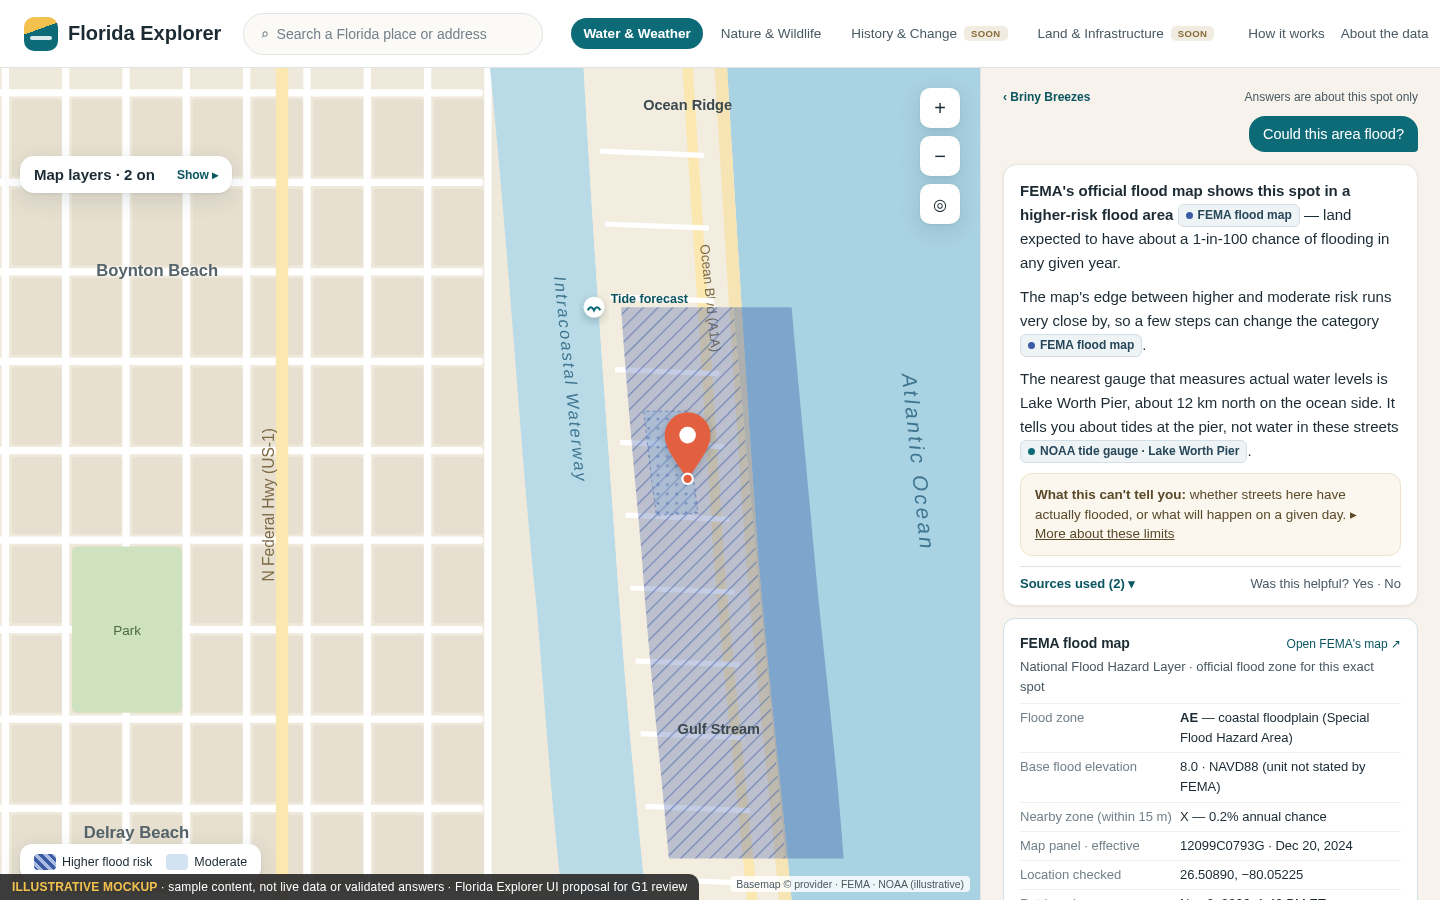
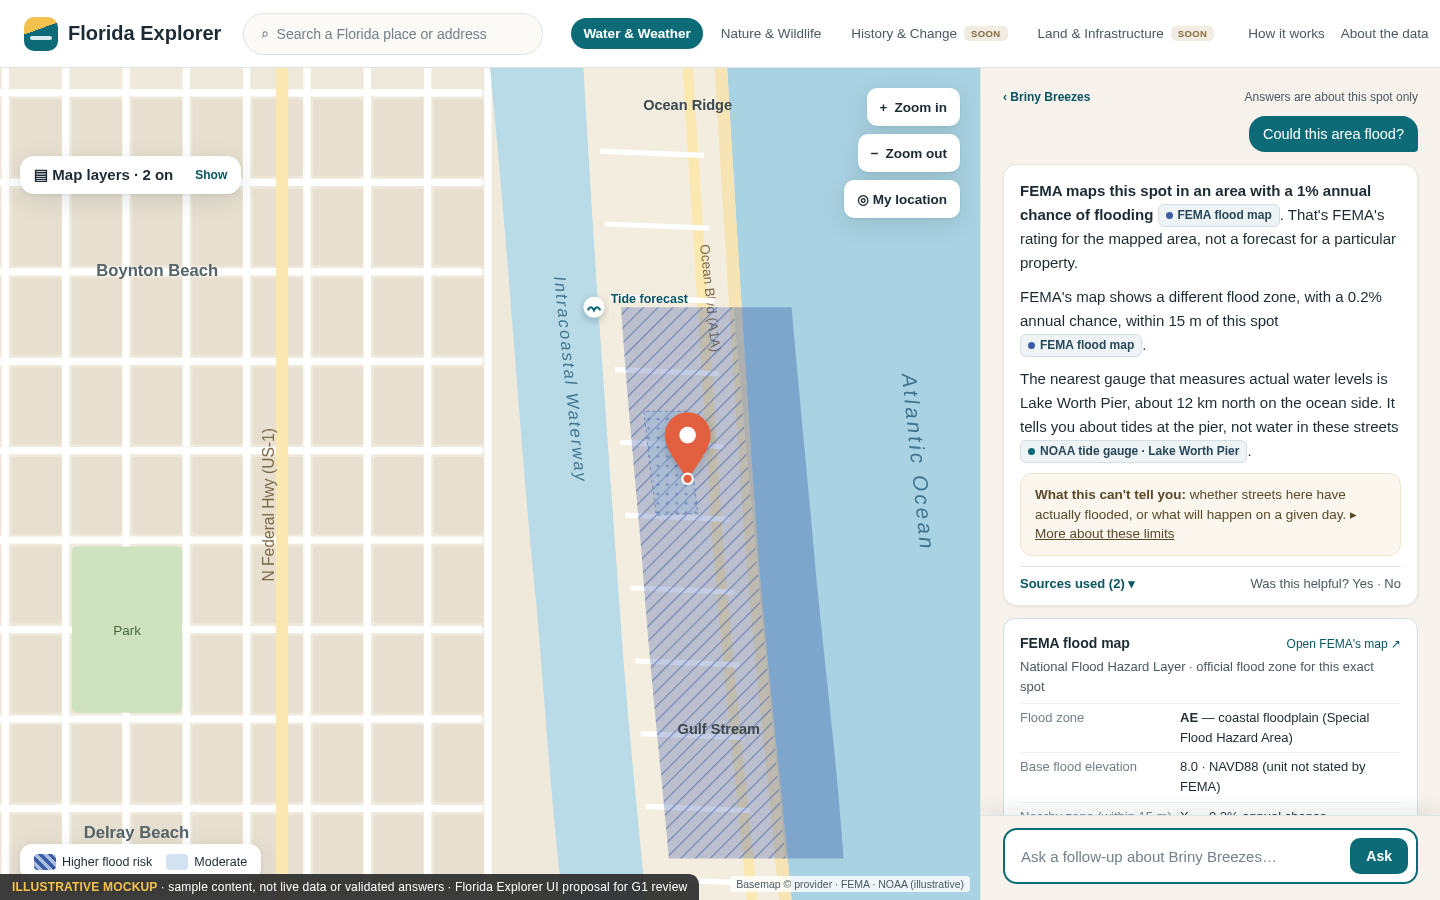
UI refinements: pinned Ask This Place, FEMA-attributed flood wording, actionable nature cards, labelled map controls

diff --git a/devin/ui-design.md b/devin/ui-design.md
@@ -68,14 +68,20 @@ Plain text is generated from the verified `FLD_ZONE` / `ZONE_SUBTY` fact using a
 
 | FEMA fact | Plain-language headline (proposed wording) |
 |---|---|
-| A, AE, AH, AO, AR, A99 | "Higher-risk flood area: about a 1% chance of flooding each year" |
-| V, VE | "Highest-risk coastal flood area: flooding plus waves, about a 1% chance each year" |
-| X with 0.2% subtype | "Moderate-risk flood area: about a 0.2% chance each year" |
-| X (minimal) | "Lower-risk area on FEMA's map. Flooding can still happen" |
-| D | "FEMA hasn't determined the flood risk here" |
-| `in_coverage_no_zone` | "FEMA's map covers this spot but shows no flood zone here, which is a gap in the map rather than a sign of low risk" |
-| `outside_nfhl_coverage` | "FEMA's digital flood map doesn't cover this spot" |
-| near boundary / `nearbyZones` | adds "A different flood category starts a few steps away" |
+| A, AE, AH, AO, AR, A99 | "FEMA maps this spot in an area with a 1% annual chance of flooding." |
+| V, VE | "FEMA maps this spot in a coastal area with a 1% annual chance of flooding, where waves add to the hazard." |
+| X with 0.2% subtype | "FEMA maps this spot in an area with a 0.2% annual chance of flooding." |
+| X (minimal) | "FEMA maps this spot outside its 1% and 0.2% annual-chance flood areas. Flooding can still happen." |
+| D | "FEMA's map shows the flood hazard here as undetermined." |
+| `in_coverage_no_zone` | "FEMA's map covers this spot but shows no flood zone here. That's a gap in the map, not a sign of low risk." |
+| `outside_nfhl_coverage` | "FEMA's digital flood map doesn't cover this spot." |
+| `classified_near_boundary` / `nearbyZones` | adds "FEMA's map shows a different flood zone within 15 m of this spot." (15 m is the verified buffer distance, D8; boundaries on the map are approximate) |
+
+Wording rules:
+- The sentence always says what **FEMA maps**. It never claims the property has that probability.
+- No "risky", "safe", "low risk" or "a few steps away".
+- Distances appear only when computed from source geometry (the boundary buffer, or a distance to a polygon).
+- In technical details, "1% annual chance" is explained as FEMA's regulatory definition for the mapped area, not a property-level forecast.
 
 ### 0.5 Readable source labels
 
@@ -95,6 +101,7 @@ Station labels are built from the cited record's own station name and water body
 ### 0.6 Explore this place
 
 - Shows the place name (from the geocoder or Census place record), a one-line description and up to three summary cards: Flooding, Tides nearby, Nature nearby (proposed, C8).
+- **Ask This Place is always visible.** On desktop it is pinned to the bottom of the place panel: the Ask box plus one row of suggested questions, with a top shadow. Cards scroll above it, and it never scrolls out of view. On mobile it stays in the collapsed and half sheets as the primary button or box. Acceptance: at 1366×768 and 360×800 the Ask box is visible without scrolling (N31).
 - Each card has one plain sentence, a source label and one expander.
 - Suggested questions sit under the Ask box: "Could this area flood?", "What are king tides?", "What's protected near here?", "How high do tides get?".
 - **Gap flagged:** the one-line place description isn't from a current evidence source. Options are U8 (a curated, owner-approved blurb labelled as editorial, a sourced description, or omit it in the MVP). Until decided, the mockup sentence is illustrative only.
@@ -111,6 +118,7 @@ Station labels are built from the cited record's own station name and water body
 - Layers: **Flooding** (baseline), **Wetlands**, **Conservation areas**, **Aquatic preserves**, **Shoreline** (proposed, C7 — tagged "Proposed" in the mockups) and **Tide stations**.
 - Each row shows a swatch, a plain name and a source subtitle. Tapping the name opens "What's this?" with the source, date and limitations.
 - Fixed note: "Layers help you look around. What we say about your spot comes from each source's own records."
+- **Descriptive controls.** Map controls carry visible text labels, not icons alone: "Map layers", "Select map center", "Zoom in", "Zoom out" and "My location". Icons, where used, sit next to the text, and the accessible name equals the visible label (WCAG 2.5.3). On mobile, the label may be shortened to "Layers" but the accessible name stays "Map layers" (N32).
 
 ### 0.9 Nature & Wildlife
 
@@ -118,6 +126,13 @@ Station labels are built from the cited record's own station name and water body
   - **"Seen here":** a reported sighting at a place and date. It doesn't mean the species lives there.
   - **"Could live here":** mapped likely habitat. It doesn't mean anyone has seen it there.
 - Live in the proposal: protected places nearby and wetlands (C7/C8).
+- **Actionable nearby-place cards.** Each protected place shows:
+  - its name and managing agency;
+  - the **distance from the selected spot to the area's boundary**, computed server-side from source geometry ("0 km — this spot is inside" when inside);
+  - a **"Show on map"** button that zooms to and highlights the area, with focus moving to the map and an announced name;
+  - a link to the manager's website when the source provides one.
+  
+  A fixed line under the list reads: "Protected doesn't always mean open to the public. Check with the managing agency before visiting."
 - Shown as **Coming later:** wildlife sightings (iNaturalist candidate) and likely rare-species habitat (FNAI Biodiversity Matrix, pending data-use permission). Details are in layer-reuse-feasibility.md §4.
 - Example content is labelled "Example layout — not live data".
 
@@ -153,7 +168,7 @@ Full-screen map with a bottom sheet that has three snap points: A collapsed (≈
 | Top bar | Product name; place search or typed lat/lon; four domain tabs; About/Help | R01, charter domains |
 | Domain tabs | **Water & Weather** (MVP, active), **Nature & Wildlife**, **History & Change**, **Land & Infrastructure** (labelled "later"; visible so the product scope is legible, but they load no data) | Charter; PRD future domains |
 | Layers panel | FEMA flood hazard overlay (toggle, opacity), NOAA station markers, NOAA sea level rise (disabled, "later — D3"), basemap choice, FEMA legend with verbatim codes and plain labels, station legend, an "overlay is orientation only" note, and attribution | R02, R03, R08 |
-| Map | Basemap, FEMA overlay, station markers (circle = observed, triangle = predictions only), selected-point crosshair and coordinate chip, zoom, locate, "Select map centre" control, scale bar, attribution | R01, R02, R08 |
+| Map | Basemap, FEMA overlay, station markers (circle = observed, triangle = predictions only), selected-point crosshair and coordinate chip, zoom, locate, "Select map center" control, scale bar, attribution | R01, R02, R08 |
 | This place | Bound-point header; FEMA card; NOAA card; Ask This Place; answer; source details | R02–R06 |
 
 ## 3. Interaction specification
@@ -163,7 +178,7 @@ Full-screen map with a bottom sheet that has three snap points: A collapsed (≈
 | Input | Behaviour |
 |---|---|
 | Click or tap on the map | Moves the crosshair to the exact clicked coordinate and shows the chip `26.50890, -80.05225` (5 dp display; full precision is kept). On mobile, a toast "Point moved to …" offers Undo for 5 s |
-| Keyboard | Map is focusable. Arrow keys pan by 1/8 of the viewport (Shift: 1/2), `+`/`−` zoom, and **Enter** or the "Select map centre" button selects the fixed centre crosshair. The result is identical to a click |
+| Keyboard | Map is focusable. Arrow keys pan by 1/8 of the viewport (Shift: 1/2), `+`/`−` zoom, and **Enter** or the "Select map center" button selects the fixed centre crosshair. The result is identical to a click |
 | Typed coordinates | Search box accepts `lat, lon`. Rejected with an inline message and no query when outside the Florida envelope ("This point is outside Florida; Florida Explorer covers Florida only") or when the order looks swapped ("Did you mean 26.51, -80.05? Latitude comes first") |
 | Place search | Geocoder suggestions (provider per D1). Choosing one sets the point; the chip shows coordinates, not just the name |
 | Copy | Copies coordinates in `lat, lon` decimal degrees |

diff --git a/devin/validation-plan.md b/devin/validation-plan.md
@@ -99,14 +99,16 @@ Assertions per fixture: state code, rendered copy, limitation code, and that no 
 | N20 | Identifiers and dates in text | "Station 8722670 … on 2025-10-10", "panel 12099C0793G effective 2024-12-20" citing matching records | accepted: ids/dates checked against id/date fields, no unit or datum required; wrong id (8722671) or date → rejected | Design |
 | N21 | No zone at point, zone in buffer | NZ-1 variant: layer 0 hit, exact layer 28 empty, buffer returns AE; and OC variant: layer 0 empty, buffer returns VE | state stays `in_coverage_no_zone` / `outside_nfhl_coverage`, `nearbyZones` lists the zone, near-boundary warning + `NEAR_MAPPED_ZONE` shown; buffer failure → `BOUNDARY_CHECK_UNAVAILABLE` | Synthetic |
 | N22 | Out-of-bounds map selection | click/tap, keyboard centre select and place-search result at 25.00, -78.00 | same rejection as typed input (N02): crosshair and current point unchanged, no request, message shown; server rejection, if forced, renders the same message | Design |
-| N23 | Plain-language flood copy | each FEMA state/zone fixture (BB-P1, BB-P2, NZ-1, OC-1, near-boundary) | headline equals the §0.4 template for the verified fact; technical code present in details; copy never says "safe" | Design |
+| N23 | Plain-language flood copy | each FEMA state/zone fixture (BB-P1, BB-P2, NZ-1, OC-1, near-boundary) | headline equals the §0.4 template for the verified fact (e.g. BB-P1: "FEMA maps this spot in an area with a 1% annual chance of flooding."); technical code present in details; copy never says "safe", "low risk" or "a few steps away", and never states a property-level probability; distances only from computed geometry | Design |
 | N24 | Readable source labels | answers citing FEMA, NOAA obs and NOAA predictions | each claim shows the mapped label (ui-design.md §0.5), never only `E#`; details show `E#` | Design |
 | N25 | No verification badge | all answer modes | no "verified", "confirmed" or check-mark badge on answers or places; template mode shows the plain notice | Design |
 | N26 | Sightings vs habitat (future) | synthetic `species_observation` and `habitat_model` records at one point | rendered in separate sections with "Seen here" / "Could live here"; neither class supports the other's claims | Synthetic |
 | N27 | Nature lookup: no feature at point | BB-P1 | conservation, aquatic preserve and wetland point lookups all empty; nothing says "inside" a protected area or wetland; the nearby list may still show places | Checked live (all three empty) |
 | N28 | Nature lookup: positive membership | 26.50, −80.25 and 25.60, −80.20 | conservation `MANAME` = "Arthur R. Marshall Loxahatchee National Wildlife Refuge" / "Biscayne National Park"; wetland `WETLAND_TYPE` = "Freshwater Emergent Wetland" (`PEM1F`) / "Estuarine and Marine Deepwater" (`M1ABL`); rendered facts equal the source fields | Checked live |
-| N29 | Nearby protected places | BB-P1 with the approved radius (D12) | list equals the saved authoritative nearby-query result (live box check returned Seacrest Scrub, Ocean Ridge and North Ocean Ridge Mangroves Natural Areas); each distance is to the polygon boundary, computed server-side and within 10 m of a reference GIS calculation; ordered by distance | Names checked live; distances pending radius decision |
+| N29 | Nearby protected places | BB-P1 with the approved radius (D12) | list equals the saved authoritative nearby-query result (live check: Ocean Ridge NA 1.22 km, Seacrest Scrub NA 1.75 km, North Ocean Ridge Mangroves NA 2.21 km, Ocean Ridge Hammock Park 2.55 km; see layer-reuse-feasibility.md); "Show on map" zooms to and highlights the same polygon; the access caveat is always shown; each distance is to the polygon boundary, computed server-side and within 10 m of a reference GIS calculation; ordered by distance | Names checked live; distances pending radius decision |
 | N30 | Aquatic preserve membership and failures | synthetic point inside a preserve polygon (from a saved response); and a preserve query timeout | "inside <NAME> Aquatic Preserve" only when the exact point query hits; a timeout shows the layer as unavailable and never "not in a preserve" | Synthetic / mock |
+| N31 | Ask always visible | desktop 1366×768 and 1920×1080, mobile 360×800, with the longest place-card content | Ask box in viewport without scrolling on every place view; remains visible while cards scroll | Design |
+| N32 | Descriptive map controls | all map controls | each has a visible text label (or a visible short label) and an accessible name containing it; no icon-only control; screen reader reads "Map layers", "Select map center" | Design |
 | N18 | Unsupported unknown | `NO_ICWW_OBS_STATION` when pack has an ICWW water-level station | dropped (basis re-derivation fails) | Design |
 
 ## 6. Run evidence (post-approval)

diff --git a/devin/layer-reuse-feasibility.md b/devin/layer-reuse-feasibility.md
@@ -28,6 +28,17 @@ The analyzer has five layers, each described by a declarative `EnvironmentalLaye
 
 All services accepted `inSR=4326` point queries with server-side transformation. No credentials were needed.
 
+**Distances to nearby protected places** (used in the mockups). These are computed from the live conservation-lands geometry (`outSR=4326`), measuring from BB-P1 to each polygon boundary with a local planar approximation; the reference GIS cross-check is pending (N29):
+
+| Area | Managing agency | Distance to boundary | Direction (to centroid) |
+|---|---|---|---|
+| Ocean Ridge Natural Area | Palm Beach County | 1.22 km | N |
+| Seacrest Scrub Natural Area | Palm Beach County | 1.75 km | SW |
+| North Ocean Ridge Mangroves Natural Area | Palm Beach County | 2.21 km | N |
+| Ocean Ridge Hammock Park | Palm Beach County | 2.55 km | N |
+
+Each record carries `MA_WEBSITE` (here the county's ERM or parks page), which supports the "managing agency" link. Protection status (`PROTSTAT`) says nothing about public access, so the UI always shows an access caveat.
+
 ## 2. Reuse assessment
 
 | Analyzer element | Verdict | Notes |

diff --git a/devin/design-summary.md b/devin/design-summary.md
@@ -39,6 +39,11 @@ Kept from the Devin Review rounds:
 - **No verification badges.** Uncertainty is shown in one compact line per answer.
 - **Analyzer layers:** [layer-reuse-feasibility.md](layer-reuse-feasibility.md) records live checks of the analyzer's wetlands, conservation, aquatic-preserve and shoreline services. It proposes scope changes **C7** (display-only layers in I1, ≈ +1.5 d), **C8** (nature facts, new I3b ≈ +2 d) and **C9** (new evidence classes). None is applied without D12/D13.
 - **Unchanged:** the bounds-check rule (N22) and all evidence safeguards. New tests N23–N26.
+- **Refinements after Chuck approved the look and interaction direction:**
+  - Ask This Place is pinned so it's always visible (N31).
+  - Flood wording is now "FEMA maps this spot in an area with a 1% annual chance of flooding", with distances only from computed geometry (N23).
+  - Nature cards show distance to the boundary and "Show on map", plus a public-access caveat.
+  - Map controls have descriptive text labels (N32).
 
 ## Unresolved decisions (details in cost-security-and-decisions.md §6)
 
